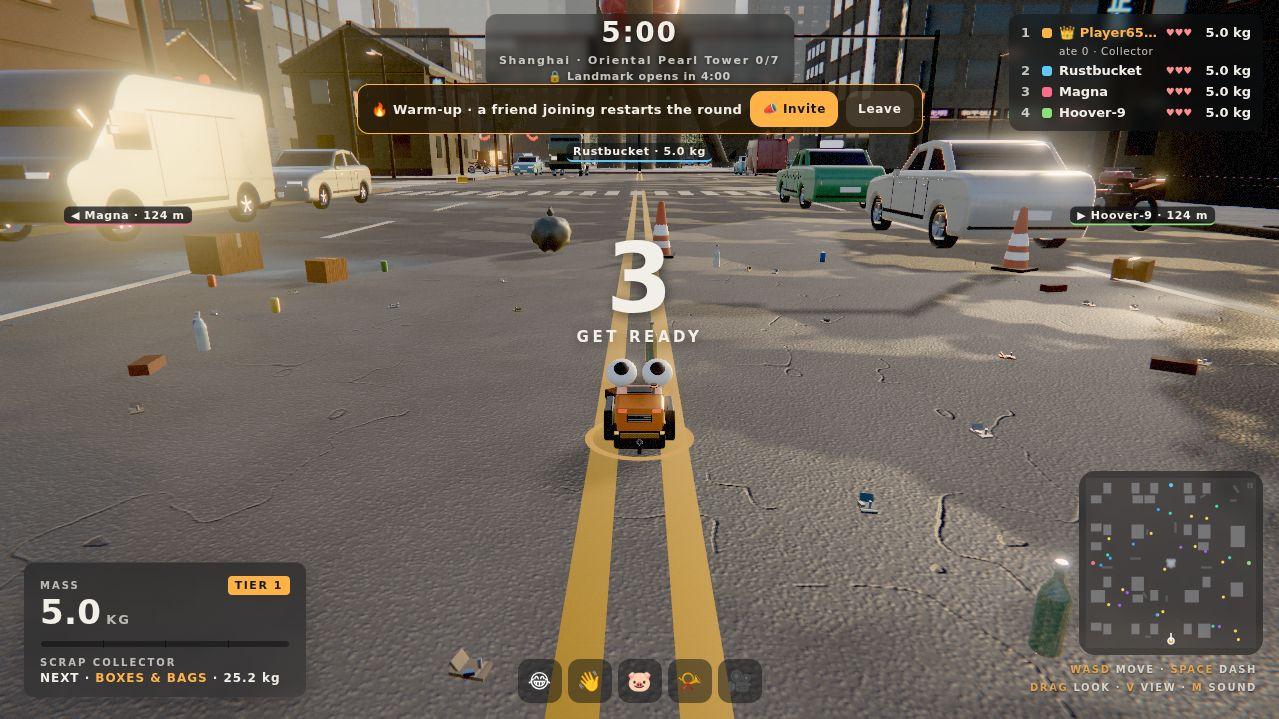
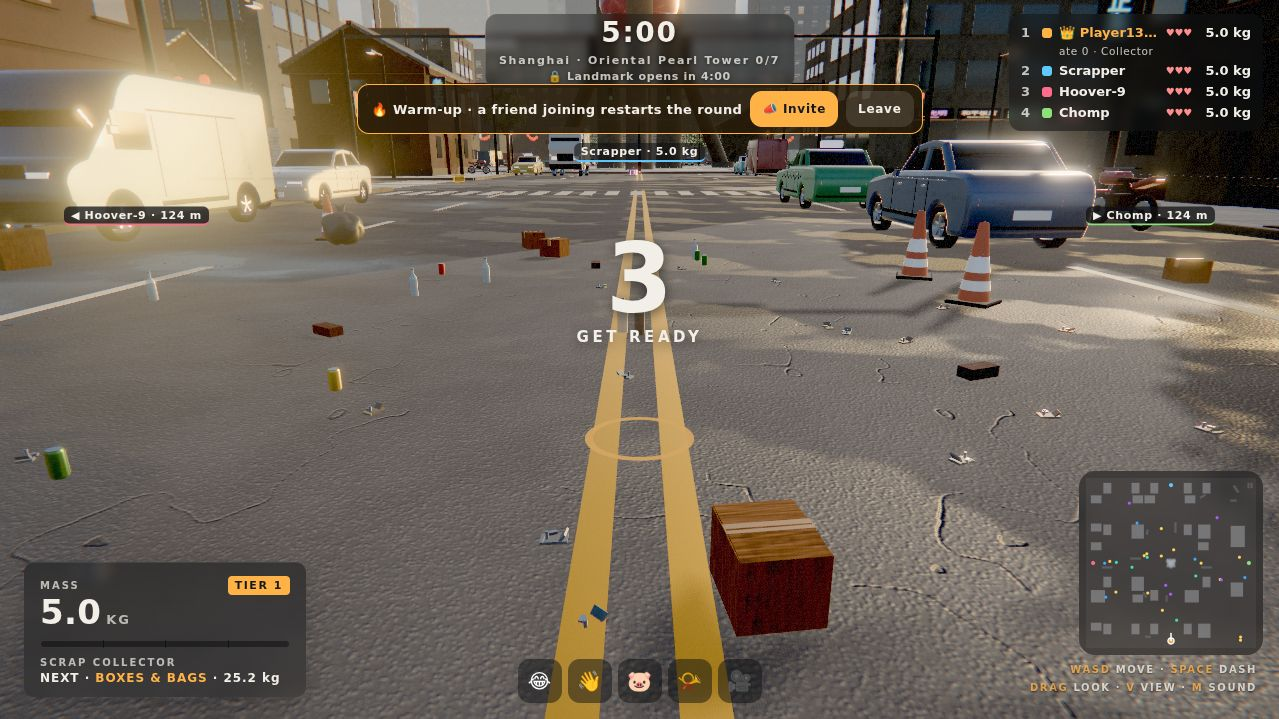
docs: Steam screenshot set and smoke-test captures
Claude-Session: https://claude.ai/code/session_01HrJej4mSimdcKNoWz6TE82

diff --git a/docs/business/sales/platforms/steam.md b/docs/business/sales/platforms/steam.md
@@ -42,7 +42,7 @@ Known gap: the Windows `.exe` still has the default Electron icon (setting it fr
 | Library capsule | 600×900 | `release/steam-store/library_capsule_600x900.png` |
 | Library hero | 3840×1240 | `release/steam-store/library_hero_3840x1240.png` |
 | Library logo | 1280×720, transparent | `release/steam-store/library_logo_1280x720.png` |
-| Screenshots | 1920×1080, at least 5 | `release/steam-store/screenshots/` + `marketing/press-kit/screenshots/` |
+| Screenshots | 1920×1080, at least 5 | `release/steam-store/screenshots/` (5 Halloween Town shots, neutral names) + `marketing/press-kit/screenshots/` (Shanghai, New York, Paris) |
 | Trailer | optional at first | `renders/marketing/` clips can be cut later |
 
 ## Store text
